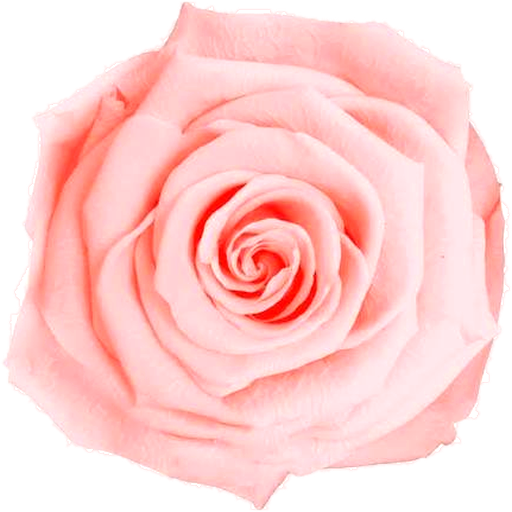
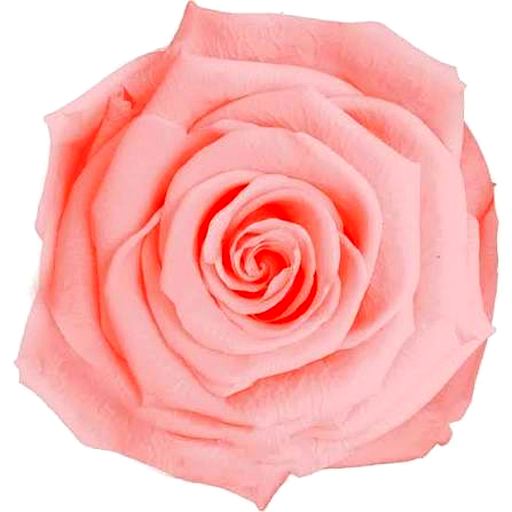
feat: make cover frame rectangular, stack title text, and boost rose & gold vibrance

diff --git a/style.css b/style.css
@@ -39,7 +39,7 @@ body.opened {
 .bg-atmosphere {
     position: fixed;
     top: 0; left: 0; width: 100%; height: 100%;
-    background: radial-gradient(circle at 50% 35%, #ffffff 0%, #faf5ec 55%, #ede2d0 100%);
+    background: radial-gradient(ellipse at 50% 45%, #ffffff 0%, #faf4e8 38%, #f3e2ca 72%, #dfc8a8 100%);
     pointer-events: none;
     z-index: 1;
 }
@@ -56,9 +56,9 @@ body.opened {
 .sparkle {
     position: absolute;
     bottom: -10px;
-    background: radial-gradient(circle, #fff7c2 10%, #d4af37 60%, transparent 80%);
+    background: radial-gradient(circle, #ffffff 15%, #ffe266 50%, #d4af37 75%, transparent 100%);
     border-radius: 50%;
-    box-shadow: 0 0 6px 1px rgba(212, 175, 55, 0.45);
+    box-shadow: 0 0 8px 2px rgba(240, 195, 50, 0.7);
     animation: floatUp linear forwards;
     opacity: 0;
     will-change: transform, opacity;
@@ -171,22 +171,27 @@ body.opened {
     pointer-events: none;
 }
 
-/* The Central Decorative Frame */
+/* The Central Decorative Frame (Elegant Vertical Portrait Rectangle) */
 .cover-frame {
     position: relative;
-    border: 2px solid #c99f32;
-    padding: 3.8rem 2.2rem;
-    width: 88%;
-    max-width: 370px;
+    border: 2px solid #d4af37;
+    padding: 3.6rem 1.8rem 3.2rem;
+    width: 84%;
+    max-width: 350px;
+    min-height: 490px;
     text-align: center;
-    background: rgba(255, 255, 255, 0.94);
+    background: rgba(255, 255, 255, 0.96);
     backdrop-filter: blur(14px);
     -webkit-backdrop-filter: blur(14px);
-    border-radius: 4px;
-    box-shadow: 0 15px 50px rgba(180, 145, 95, 0.25),
-                inset 0 0 25px rgba(212, 175, 55, 0.08),
-                0 0 25px rgba(212, 175, 55, 0.2);
+    border-radius: 6px;
+    box-shadow: 0 18px 55px rgba(160, 120, 45, 0.28),
+                0 0 35px rgba(212, 175, 55, 0.3),
+                inset 0 0 30px rgba(255, 245, 220, 0.6);
     z-index: 10;
+    display: flex;
+    flex-direction: column;
+    justify-content: space-between;
+    align-items: center;
     transition: transform 0.6s ease, box-shadow 0.6s ease;
 }
 
@@ -195,8 +200,8 @@ body.opened {
     content: '';
     position: absolute;
     top: 6px; left: 6px; right: 6px; bottom: 6px;
-    border: 1px solid rgba(201, 159, 50, 0.4);
-    border-radius: 2px;
+    border: 1.2px solid rgba(212, 175, 55, 0.5);
+    border-radius: 3px;
     pointer-events: none;
 }
 
@@ -204,8 +209,8 @@ body.opened {
     content: '';
     position: absolute;
     top: -6px; left: -6px; right: -6px; bottom: -6px;
-    border: 1px solid rgba(201, 159, 50, 0.25);
-    border-radius: 6px;
+    border: 1px solid rgba(212, 175, 55, 0.3);
+    border-radius: 8px;
     pointer-events: none;
 }
 
@@ -260,8 +265,8 @@ body.opened {
     pointer-events: none !important;
     user-select: none;
     -webkit-user-select: none;
-    /* Bright luminous rose with zero halo and warm glowing aura */
-    filter: brightness(1.14) saturate(1.1) drop-shadow(0 4px 14px rgba(255, 175, 185, 0.45)) drop-shadow(0 0 12px rgba(255, 225, 140, 0.55));
+    /* Rich, vibrant royal pink roses with crisp petal definition and warm golden aura */
+    filter: contrast(1.1) saturate(1.22) drop-shadow(0 4px 10px rgba(180, 105, 25, 0.4)) drop-shadow(0 2px 8px rgba(235, 110, 135, 0.5));
     transform-origin: center center;
     opacity: 0;
     transform: scale(0) rotate(-360deg);
@@ -274,17 +279,17 @@ body.opened {
     0% {
         opacity: 0;
         transform: scale(0) rotate(-360deg);
-        filter: brightness(2.2) drop-shadow(0 0 25px #ffd700);
+        filter: brightness(1.7) drop-shadow(0 0 22px #ffd700);
     }
     65% {
         opacity: 1;
         transform: scale(1.14) rotate(15deg);
-        filter: brightness(1.22) drop-shadow(0 0 16px rgba(255, 215, 120, 0.7));
+        filter: contrast(1.12) saturate(1.25) drop-shadow(0 0 16px rgba(255, 215, 120, 0.7));
     }
     100% {
         opacity: 1;
         transform: scale(1) rotate(0deg);
-        filter: brightness(1.14) saturate(1.1) drop-shadow(0 4px 14px rgba(255, 175, 185, 0.45)) drop-shadow(0 0 12px rgba(255, 225, 140, 0.55));
+        filter: contrast(1.1) saturate(1.22) drop-shadow(0 4px 10px rgba(180, 105, 25, 0.4)) drop-shadow(0 2px 8px rgba(235, 110, 135, 0.5));
     }
 }
 
@@ -360,59 +365,87 @@ body.opened {
    ========================================================================== */
 .cover-emblem {
     font-family: 'Montserrat', sans-serif;
-    font-size: 0.75rem;
-    letter-spacing: 3px;
-    color: #9e7924;
-    margin-bottom: 0.8rem;
+    font-size: 0.76rem;
+    letter-spacing: 3.5px;
+    color: #8c6819;
+    margin-bottom: 0.9rem;
     text-transform: uppercase;
-    font-weight: 500;
+    font-weight: 600;
 }
 
 .cover-title {
-    font-size: 2.9rem;
-    line-height: 1.1;
-    margin-bottom: 0.6rem;
+    line-height: 1.06;
+    margin-bottom: 0.8rem;
     color: #231c15;
-    font-weight: 600;
     text-shadow: 0 2px 20px rgba(212, 175, 55, 0.25);
-    letter-spacing: 1px;
+}
+
+.title-top {
+    display: block;
+    font-size: 2.8rem;
+    font-weight: 700;
+    letter-spacing: 2.5px;
+    color: #1f1810;
+}
+
+.title-bottom {
+    display: block;
+    font-size: 2.3rem;
+    font-weight: 500;
+    font-style: italic;
+    color: #8c6819;
+    letter-spacing: 2px;
+    margin-top: 0.2rem;
 }
 
 .cover-divider {
-    width: 60px;
+    width: 76px;
     height: 1.5px;
-    background: linear-gradient(90deg, transparent, #c99f32, transparent);
-    margin: 0.6rem auto 1rem;
+    background: linear-gradient(90deg, transparent, #c99f32 50%, transparent);
+    margin: 0.8rem auto 1.3rem;
+    position: relative;
+}
+
+.cover-divider::after {
+    content: '◆';
+    position: absolute;
+    top: 50%; left: 50%;
+    transform: translate(-50%, -50%);
+    font-size: 0.55rem;
+    color: #c99f32;
+    background: #ffffff;
+    padding: 0 5px;
 }
 
 .cover-subtitle {
     font-family: 'Montserrat', sans-serif;
-    font-size: 0.85rem;
-    line-height: 1.6;
-    margin-bottom: 2.4rem;
-    letter-spacing: 1.5px;
+    font-size: 0.82rem;
+    line-height: 1.7;
+    margin-bottom: 2.2rem;
+    letter-spacing: 1.8px;
     text-transform: uppercase;
-    color: #5e4d35;
-    font-weight: 400;
+    color: #4a3a22;
+    font-weight: 500;
 }
 
-/* Luxury Interactive Button */
+/* Luxury Interactive Button (Gleaming Royal Gold) */
 .open-btn {
     position: relative;
     font-family: 'Montserrat', sans-serif;
-    background: linear-gradient(135deg, #d4af37 0%, #b88d22 100%);
+    background: linear-gradient(135deg, #f6e299 0%, #e2b944 25%, #c89524 60%, #9e7011 100%);
     color: #ffffff;
-    border: 1.5px solid #fff0a0;
-    padding: 14px 44px;
-    font-size: 0.95rem;
-    border-radius: 3px;
+    text-shadow: 0 1px 3px rgba(70, 45, 5, 0.7);
+    border: 1.5px solid #fff4be;
+    padding: 14px 46px;
+    font-size: 0.98rem;
+    border-radius: 4px;
     cursor: pointer;
-    letter-spacing: 3px;
+    letter-spacing: 4px;
     text-transform: uppercase;
-    font-weight: 500;
+    font-weight: 600;
     overflow: hidden;
     transition: all 0.35s ease;
-    box-shadow: 0 5px 20px rgba(180, 140, 50, 0.45), 0 0 15px rgba(212, 175, 55, 0.3);
+    box-shadow: 0 8px 24px rgba(180, 130, 25, 0.45), 0 0 16px rgba(246, 226, 153, 0.5), inset 0 1px 0 rgba(255, 255, 255, 0.6);
     z-index: 50 !important;
     pointer-events: auto !important;
     touch-action: manipulation;
@@ -426,8 +459,8 @@ body.opened {
 }
 
 .open-btn:hover, .open-btn:active {
-    background: linear-gradient(135deg, #e5be49 0%, #c99b28 100%);
-    box-shadow: 0 0 35px rgba(235, 195, 80, 0.85);
+    background: linear-gradient(135deg, #faebb2 0%, #ecc658 25%, #d4a332 60%, #ab7c17 100%);
+    box-shadow: 0 0 35px rgba(235, 195, 80, 0.9), 0 8px 25px rgba(180, 130, 25, 0.5);
     transform: translateY(-2px) scale(1.03);
 }
 
@@ -802,32 +835,39 @@ body.opened {
     }
 
     .cover-frame {
-        width: min(84vw, 340px);
-        padding: 2.6rem 1.2rem;
+        width: min(80vw, 325px);
+        min-height: 485px;
+        padding: 3rem 1.4rem 2.8rem;
         margin: auto;
     }
     .cover-emblem {
-        font-size: 0.7rem;
-        letter-spacing: 2px;
-        margin-bottom: 0.6rem;
+        font-size: 0.72rem;
+        letter-spacing: 2.5px;
+        margin-bottom: 0.8rem;
     }
-    .cover-title {
-        font-size: 2.2rem;
-        line-height: 1.12;
-        margin-bottom: 0.4rem;
+    .title-top {
+        font-size: 2.35rem;
+        letter-spacing: 2px;
+    }
+    .title-bottom {
+        font-size: 1.95rem;
+        letter-spacing: 2px;
+        margin-top: 0.2rem;
     }
     .cover-divider {
-        margin: 0.5rem auto 0.8rem;
+        width: 65px;
+        margin: 0.8rem auto 1.2rem;
     }
     .cover-subtitle {
-        font-size: 0.78rem;
-        line-height: 1.5;
-        margin-bottom: 1.6rem;
+        font-size: 0.76rem;
+        line-height: 1.6;
+        margin-bottom: 2rem;
+        letter-spacing: 1.5px;
     }
     .open-btn {
-        padding: 13px 38px;
-        font-size: 0.88rem;
-        letter-spacing: 2.5px;
+        padding: 13px 40px;
+        font-size: 0.92rem;
+        letter-spacing: 3.5px;
     }
 
     /* Precisely scaled roses so they stay 100% inside mobile viewport without horizontal overflow */

diff --git a/index.html b/index.html
@@ -78,7 +78,10 @@
 
             <div class="cover-text-wrapper">
                 <div class="cover-emblem">❦ 70 ЖАС ❦</div>
-                <h1 class="cover-title">Шақыру билеті</h1>
+                <h1 class="cover-title">
+                    <span class="title-top">Шақыру</span>
+                    <span class="title-bottom">билеті</span>
+                </h1>
                 <div class="cover-divider"></div>
                 <p class="cover-subtitle">Зейнеп Аменованың<br>мерейтойлық ақ дастарханы</p>
                 <button type="button" id="openBtn" class="open-btn" aria-label="Шақыруды ашу">
